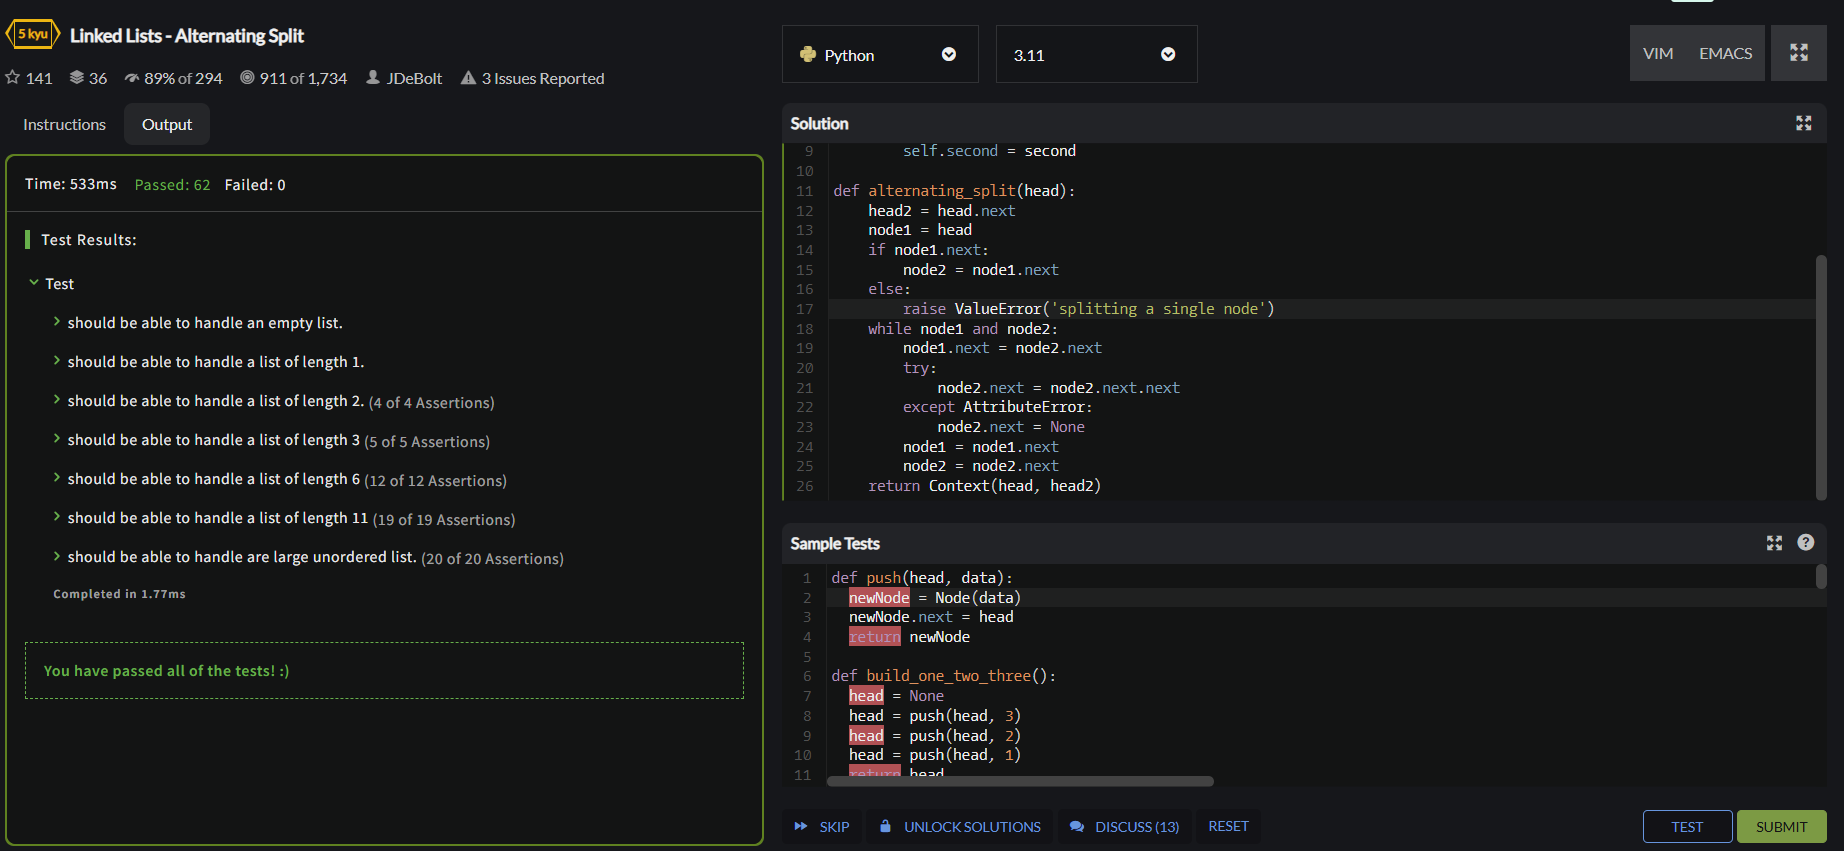
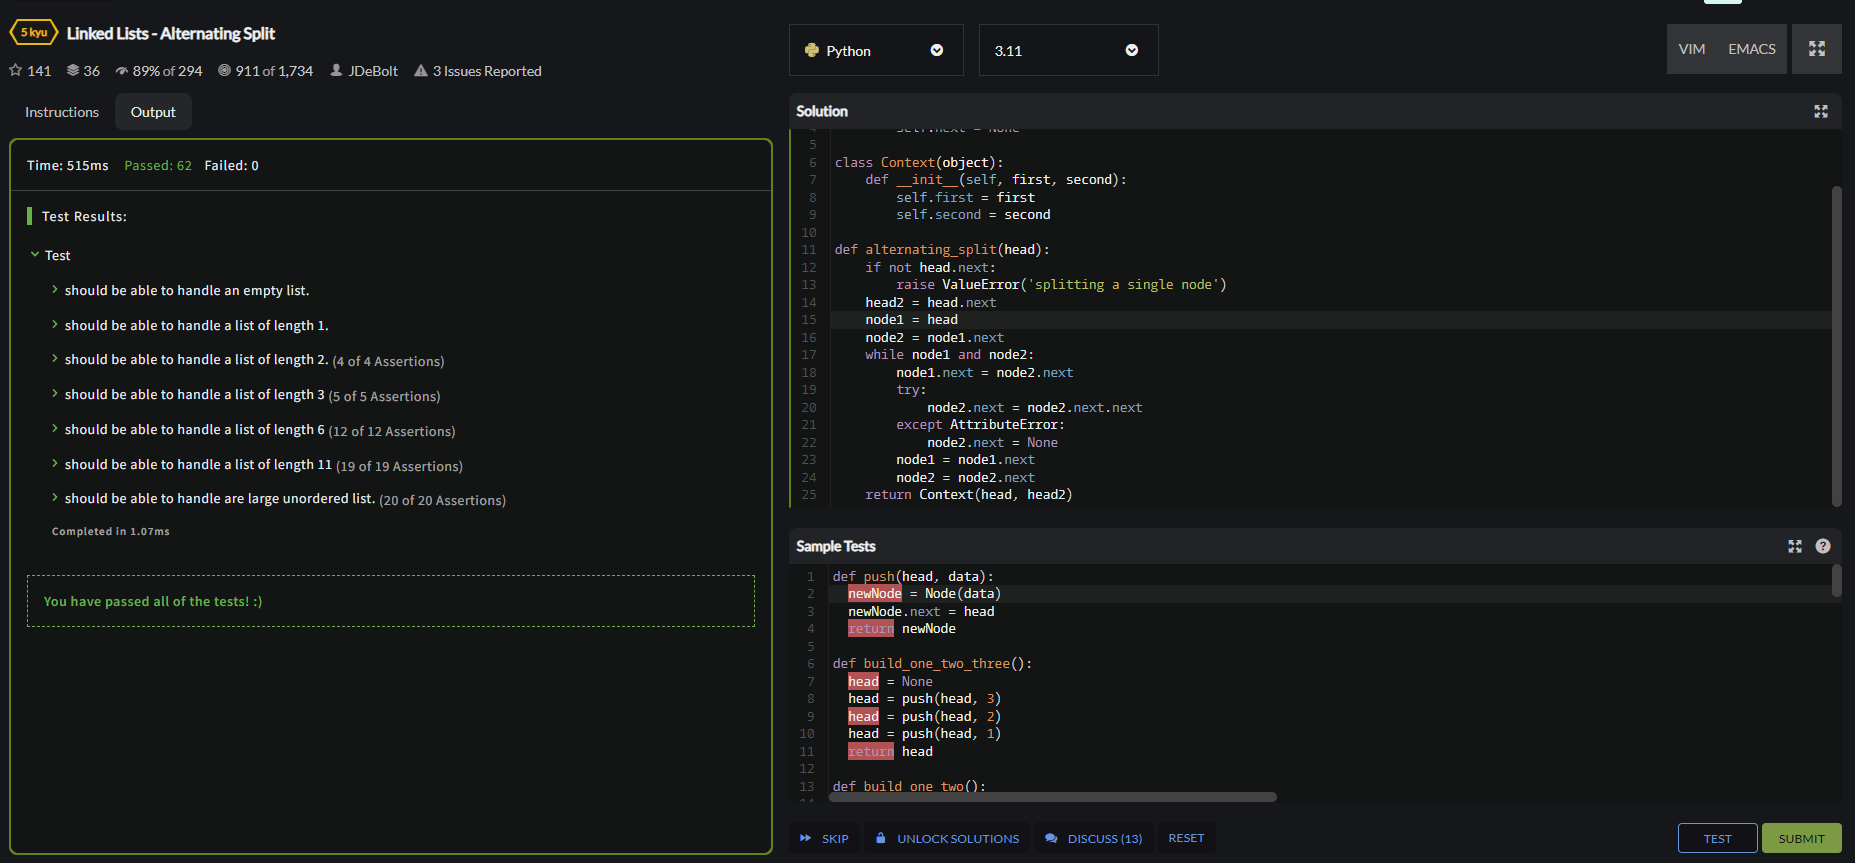
edit task 10 solution

diff --git a/10. Linked Lists - Alternating Split/task10.py b/10. Linked Lists - Alternating Split/task10.py
@@ -9,12 +9,11 @@ class Context(object):
         self.second = second
 
 def alternating_split(head):
+    if not head.next:
+        raise ValueError('splitting a single node')
     head2 = head.next
     node1 = head
-    if node1.next:
-        node2 = node1.next
-    else:
-        raise ValueError('splitting a single node')
+    node2 = node1.next
     while node1 and node2:
         node1.next = node2.next
         try:
